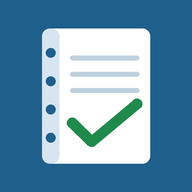
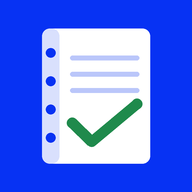
Nouvelles couleurs bleu/rose

diff --git a/index.html b/index.html
@@ -3,7 +3,7 @@
 <head>
 <meta charset="utf-8">
 <meta name="viewport" content="width=device-width, initial-scale=1, viewport-fit=cover">
-<meta name="theme-color" content="#1f5f8b">
+<meta name="theme-color" content="#0732f3">
 <title>Cahier Journalier digital v1.0</title>
 <link rel="manifest" href="manifest.webmanifest">
 <link rel="icon" type="image/png" sizes="32x32" href="icons/favicon-32.png">
@@ -17,7 +17,8 @@
 <style>
 :root{
   --bg:#f3f5f8;--card:#fff;--ink:#1c2430;--muted:#667085;--line:#e3e7ee;
-  --pri:#1f5f8b;--pri-2:#2c7cb5;--pri-soft:#e6f0f8;
+  --pri:#0732f3;--pri-2:#4a68f7;--pri-soft:#e8ecfe;--pri-d:#0527c4;--pri-line:#c2cdfc;
+  --pink:#f143bc;--pink-d:#c8168f;--pink-soft:#fde8f6;--pink-ink:#2a0620;
   --ok:#1f8a4c;--ok-soft:#e5f5ec;--bad:#c62f3a;--bad-soft:#fdeaec;--warn:#b86e00;--warn-soft:#fff3dc;
   --radius:14px;--shadow:0 1px 2px rgba(16,24,40,.06),0 2px 8px rgba(16,24,40,.05);
 }
@@ -46,7 +47,7 @@ textarea{min-height:80px;resize:vertical}
 input:focus,select:focus,textarea:focus{outline:2px solid var(--pri-2);outline-offset:0;border-color:var(--pri-2)}
 .btn{font:inherit;font-size:15px;font-weight:600;border:1px solid transparent;border-radius:11px;padding:11px 16px;min-height:46px;cursor:pointer;background:var(--pri);color:#fff;display:inline-flex;align-items:center;justify-content:center;gap:6px;text-decoration:none}
 .btn:active{transform:translateY(1px)}
-.btn.sec{background:#fff;color:var(--pri);border-color:#c5d5e4}
+.btn.sec{background:#fff;color:var(--pri);border-color:var(--pri-line)}
 .btn.ghost{background:transparent;color:var(--muted);border-color:transparent}
 .btn.danger{background:#fff;color:var(--bad);border-color:#f0c2c6}
 .btn.block{width:100%}
@@ -63,7 +64,7 @@ input:focus,select:focus,textarea:focus{outline:2px solid var(--pri-2);outline-o
 .stu .meta{font-size:13px;color:var(--muted);white-space:nowrap;overflow:hidden;text-overflow:ellipsis}
 .chip{display:inline-block;font-size:12px;font-weight:650;padding:3px 8px;border-radius:999px;background:var(--pri-soft);color:var(--pri);white-space:nowrap}
 .chip.bad{background:var(--bad-soft);color:var(--bad)}.chip.warn{background:var(--warn-soft);color:var(--warn)}.chip.ok{background:var(--ok-soft);color:var(--ok)}
-.fab{position:fixed;right:18px;bottom:calc(78px + env(safe-area-inset-bottom));z-index:25;width:58px;height:58px;border-radius:50%;border:0;background:var(--pri);color:#fff;font-size:30px;box-shadow:0 6px 16px rgba(31,95,139,.35);cursor:pointer}
+.fab{position:fixed;right:18px;bottom:calc(78px + env(safe-area-inset-bottom));z-index:25;width:58px;height:58px;border-radius:50%;border:0;background:var(--pri);color:#fff;font-size:30px;box-shadow:0 6px 16px rgba(7,50,243,.35);cursor:pointer}
 @media(min-width:900px){.fab{bottom:28px}}
 /* attendance */
 .att{border-bottom:1px solid var(--line);padding:6px 0}
@@ -133,9 +134,9 @@ a.tel{color:var(--pri);font-weight:600;text-decoration:none}
 /* ---- v2: register grid ---- */
 .pchips{display:flex;gap:6px;overflow-x:auto;padding:2px 0 4px;margin-top:10px;-webkit-overflow-scrolling:touch;scrollbar-width:none}
 .pchips::-webkit-scrollbar{display:none}
-.pchip{flex:0 0 auto;border:1px solid #c5d5e4;background:#fff;color:var(--pri);border-radius:999px;padding:8px 14px;min-height:40px;font:inherit;font-size:14px;font-weight:650;cursor:pointer;white-space:nowrap}
+.pchip{flex:0 0 auto;border:1px solid var(--pri-line);background:#fff;color:var(--pri);border-radius:999px;padding:8px 14px;min-height:40px;font:inherit;font-size:14px;font-weight:650;cursor:pointer;white-space:nowrap}
 .pchip.on{background:var(--pri);color:#fff;border-color:var(--pri)}
-.seg{display:inline-flex;border:1px solid #c5d5e4;border-radius:10px;overflow:hidden}
+.seg{display:inline-flex;border:1px solid var(--pri-line);border-radius:10px;overflow:hidden}
 .seg button{border:0;background:#fff;color:var(--pri);font:inherit;font-size:13.5px;font-weight:650;padding:7px 12px;min-height:38px;cursor:pointer}
 .seg button.on{background:var(--pri);color:#fff}
 .gridcard{padding:0;overflow:hidden}
@@ -201,17 +202,17 @@ table.grid td.t.cap{background:var(--bad-soft);color:var(--bad)}
 .clshead{font-size:12px;color:var(--muted);font-weight:650;border-bottom:1px solid var(--line)}
 table.grid td.c.K{background:#faf5ff;color:#9333ea}
 /* Dispensé (exempted from sport): purple cell struck by a vertical line; marks stay visible on top */
-table.grid td.c.dsp{background:#7c3aed;color:#fff;text-shadow:0 1px 2px rgba(0,0,0,.35)}
-table.grid td.c.dsp.nh,table.grid td.c.dsp.P{color:rgba(255,255,255,.7);text-shadow:none}
+table.grid td.c.dsp{background:var(--pink);color:var(--pink-ink)}
+table.grid td.c.dsp.nh,table.grid td.c.dsp.P{color:rgba(42,6,32,.5)}
 table.grid td.c.dsp.A{box-shadow:inset 0 0 0 3px var(--bad),inset 0 0 0 5px #fff}table.grid td.c.dsp.J{box-shadow:inset 0 0 0 3px #2563a8,inset 0 0 0 5px #fff}
 table.grid td.c.dsp.L{box-shadow:inset 0 0 0 3px var(--warn),inset 0 0 0 5px #fff}table.grid td.c.dsp.M{box-shadow:inset 0 0 0 3px #581c87,inset 0 0 0 5px #fff}
 table.grid td.c.dsp.K{box-shadow:inset 0 0 0 3px #9333ea,inset 0 0 0 5px #fff}table.grid td.c.dsp.S{box-shadow:inset 0 0 0 3px #0f766e,inset 0 0 0 5px #fff}
 table.grid th.nm .dspb{font-size:12px;margin-right:2px}
-.lg.D{background:#7c3aed;color:#fff}
-.chip.dchip{background:#ede9fe;color:#6d28d9}
-.stbtns button.dsp{color:#6d28d9}.stbtns button.dsp.on{background:#ede9fe;border-color:#6d28d9;color:#6d28d9}
+.lg.D{background:var(--pink);color:var(--pink-ink)}
+.chip.dchip{background:var(--pink-soft);color:var(--pink-d)}
+.stbtns button.dsp{color:var(--pink-d)}.stbtns button.dsp.on{background:var(--pink-soft);border-color:var(--pink);color:var(--pink-d)}
 #dspBtns{display:flex;flex-direction:column;gap:8px;margin-top:14px}#dspBtns .btn{width:100%}
-#dspBtns .btn.vio{background:#6d28d9}
+#dspBtns .btn.vio{background:var(--pink-d)}
 body.cj-ro #detDsp{display:none!important}
 .lg.K{background:#faf5ff;color:#9333ea}.chip.kchip{background:#faf5ff;color:#9333ea}
 /* v5: cycles, timetable, home */

diff --git a/sw.js b/sw.js
@@ -1,5 +1,5 @@
 /* Cahier journalier digital – service worker (cache-first, hors ligne) */
-const CACHE = 'cahier-v6';
+const CACHE = 'cahier-v7';
 const ASSETS = [
   './',
   './index.html',
